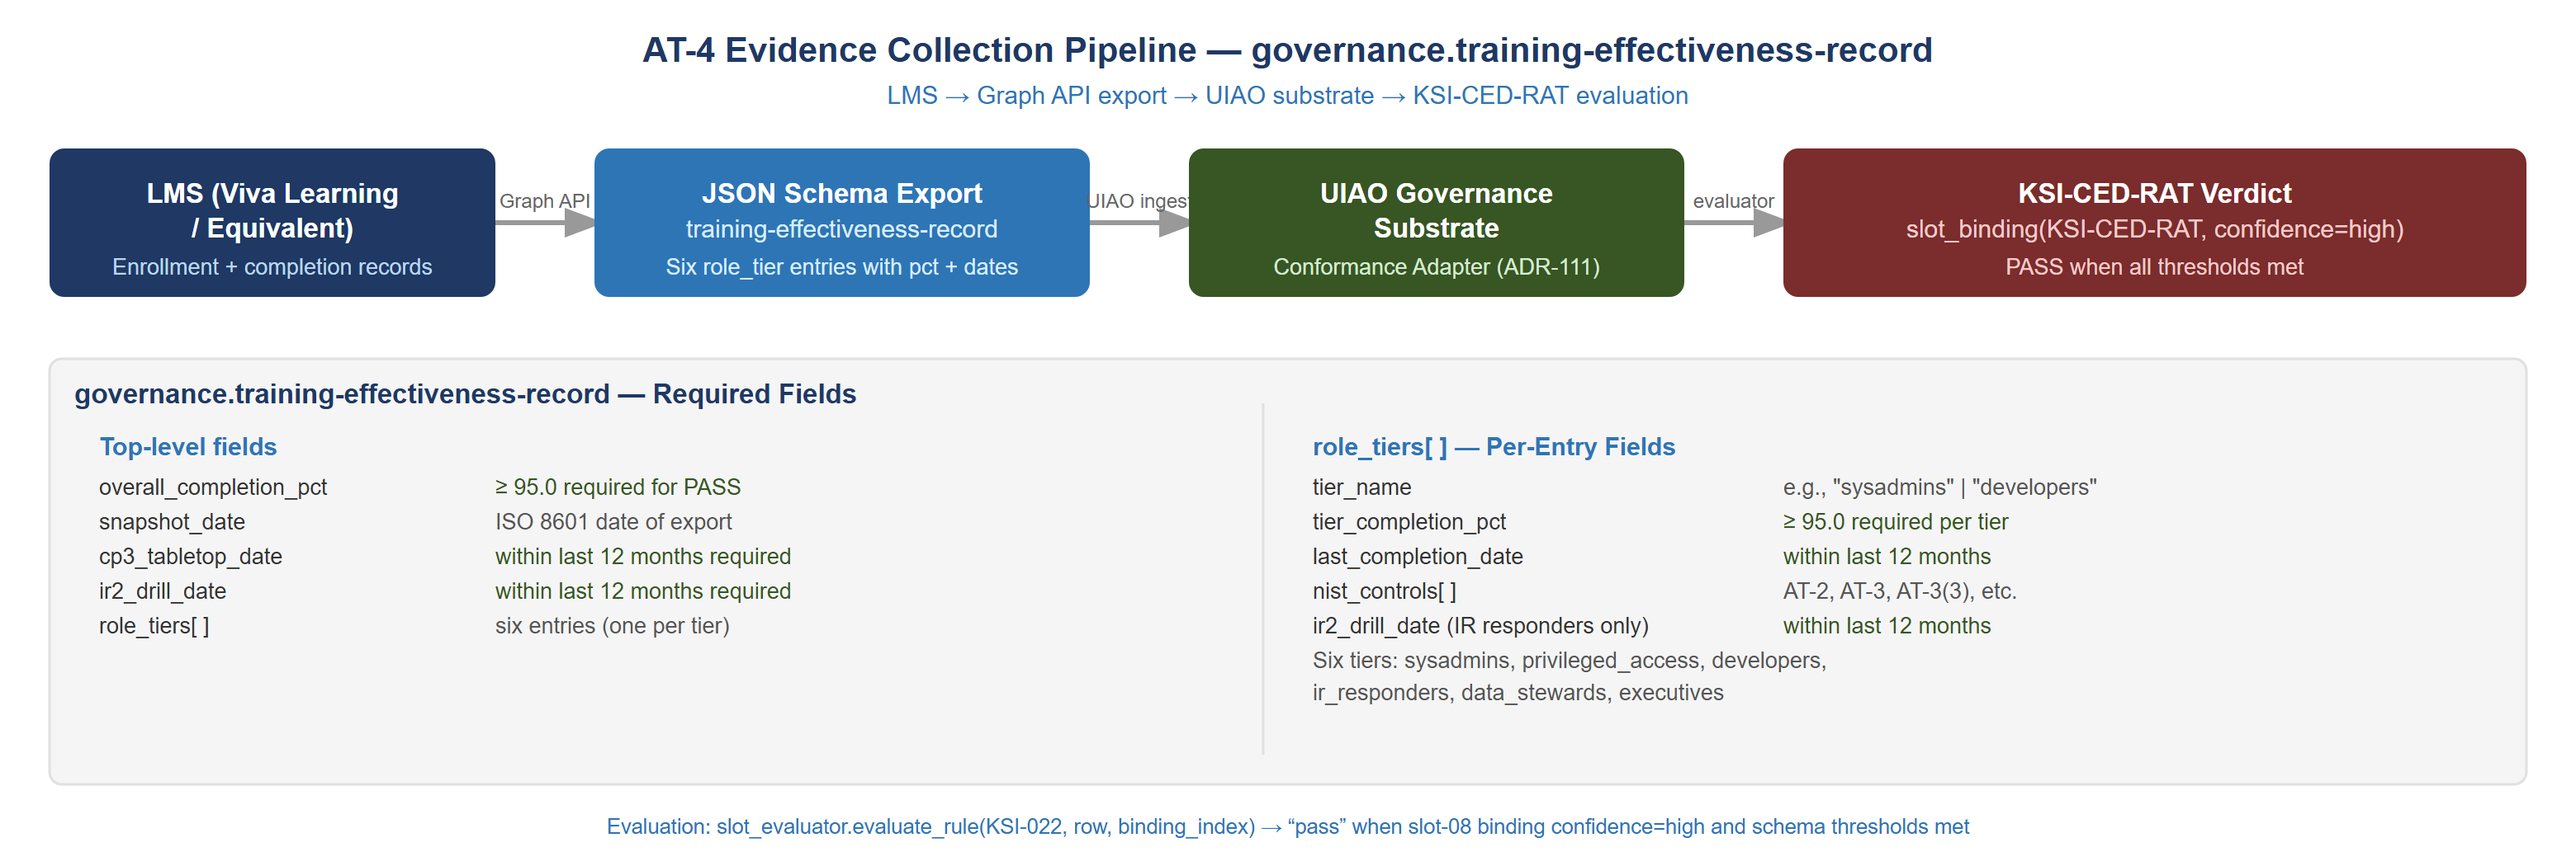
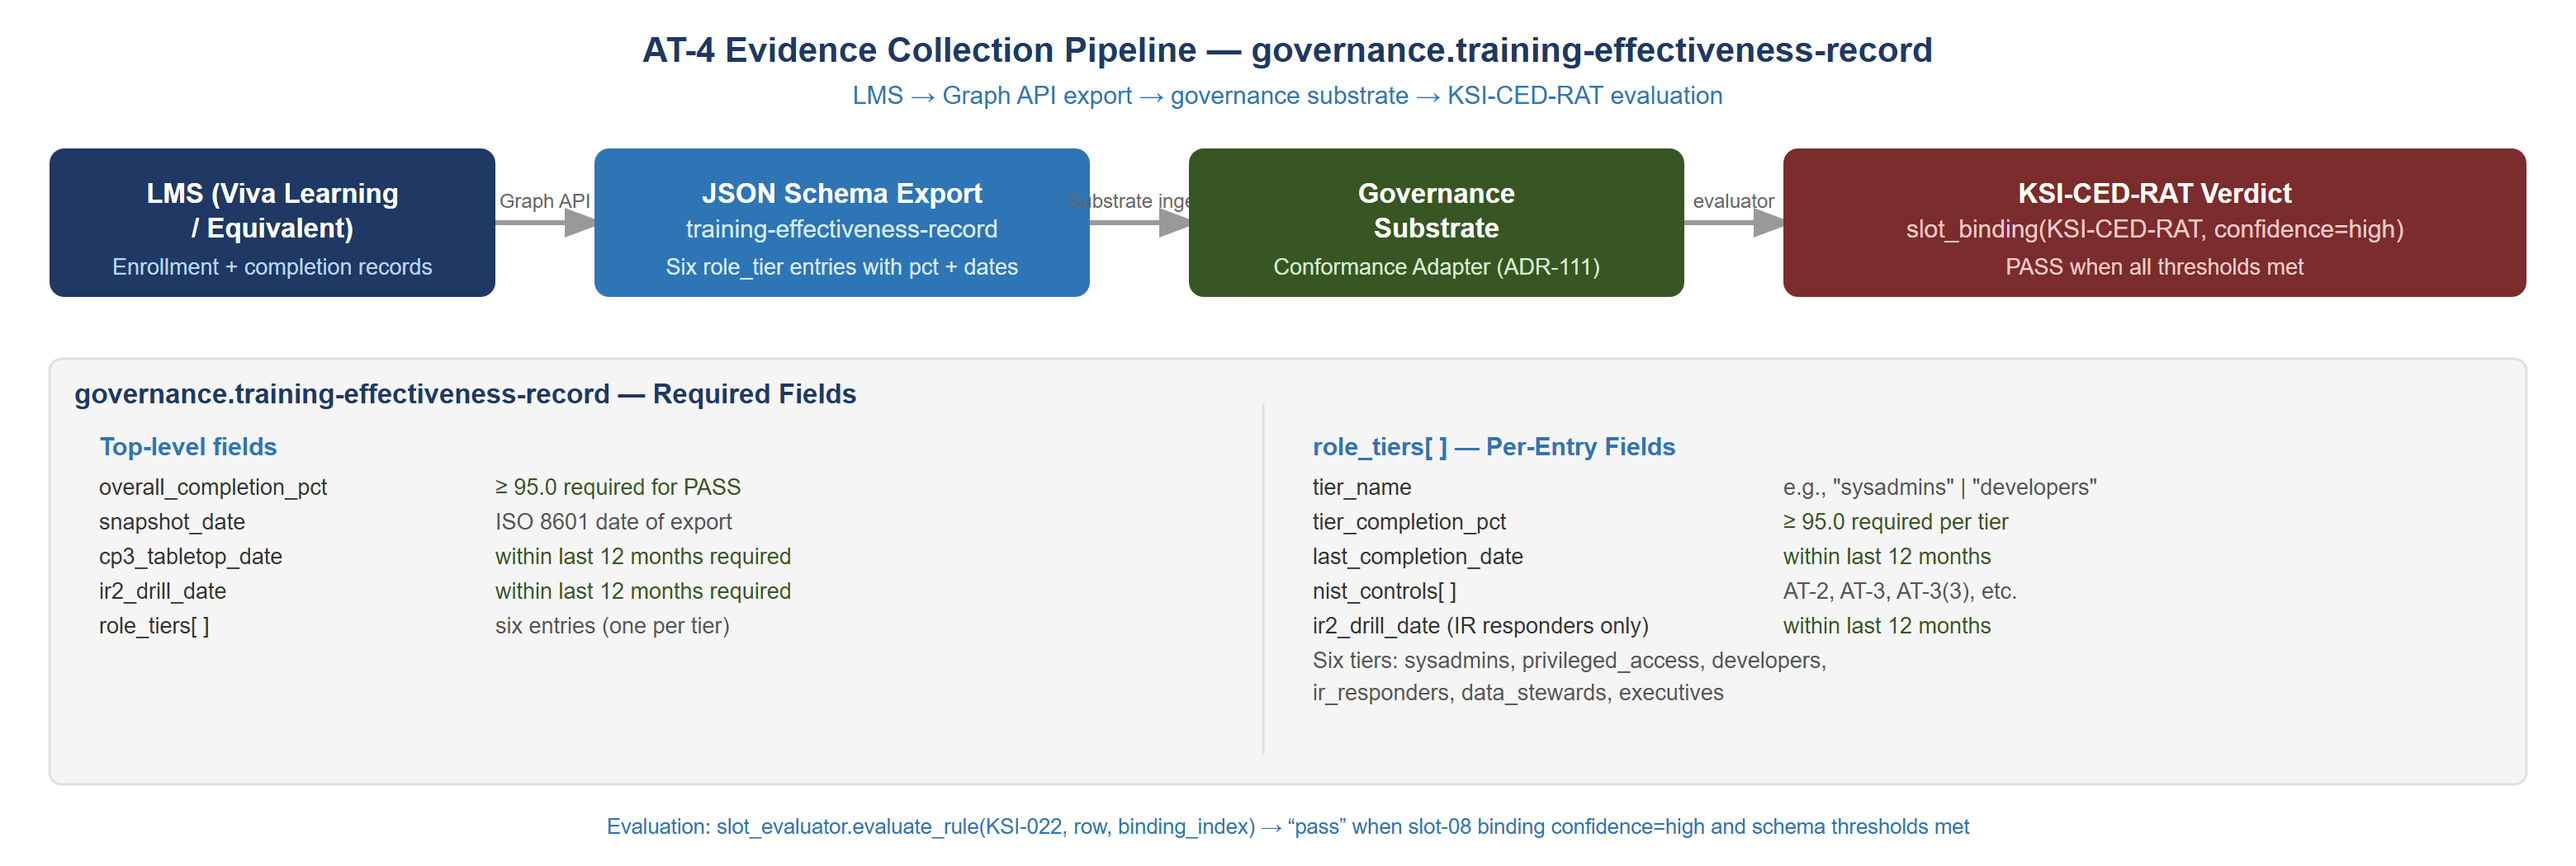
feat(aan): Vol IV Books 05 + 06 engine-neutral — ratchet 79 -> 73 (Phase 0)
The two heaviest engine-naming books now speak evidence-contract
language end to end, cleaned per the gate's pairing note (qmd + deck
spec + figures + Date Codes together):

- Vol IV Book 05 (Cybersecurity Training & Awareness, 24 mentions) and
  Vol IV Book 06 (Authorization Package & ConMon, 22 mentions):
  "UIAO governance substrate" -> "governance substrate", "the UIAO
  Conformance Adapter" -> "the governance engine's conformance adapter",
  `uiao oscal ...` / `uiao generate ssp` CLI invocations -> `<engine>
  ...` reference-implementation placeholders (the Vol 0 Book 00
  precedent), "internal UIAO working artifact" -> "internal working
  artifact", engine CI details generalized.
- Deck specs Vol_IV_Book_05/06.yaml: same rewrite in slide bodies and
  speaker notes; vendor_sources "uiao repo: src/uiao/" -> "reference
  implementation (host repo): src/"; the build-command header now points
  at BUILD-DERIVATIVES.md §1 instead of naming the engine CLI;
  date_code synced.
- figs/ced-fig-01 + ced-fig-02 rendered "UIAO" inside the diagram; SVG
  text now reads "Governance Substrate" / "Substrate ingest", PNGs
  regenerated at 3x via the render pipeline (ced-fig-01 sidecar updated;
  ced-fig-02 has no tracked sidecar).
- Both books' Date Codes refreshed to 2026-07-18 00:56 ET (frontmatter +
  header); customer-documents status table regenerated.
- check_engine_neutrality.py ratchet: 6 entries removed (2 qmds, 2
  specs, 2 SVGs) — 73 remain.
[…]

Changed region(s): [[0.3109, 0.0914, 0.684, 0.1219], [0.4974, 0.2133, 0.6218, 0.2438], [0.4042, 0.2133, 0.4663, 0.2438]]

diff --git a/docs/customer-documents/federal-aan-series/check_engine_neutrality.py b/docs/customer-documents/federal-aan-series/check_engine_neutrality.py
@@ -102,14 +102,10 @@ RATCHET = {
     "validate_day2_control_maps.py",
     # Figures that render the engine name INSIDE the diagram — need SVG
     # redraw + PNG/sidecar regen alongside their host book.
-    "figs/ced-fig-01-training-dimensions.svg",
-    "figs/ced-fig-02-evidence-pipeline.svg",
     "figs/mf-fig-13-fedramp-20x-mainframe.svg",
     "figs/mf-fig-14-ssot-restoration.svg",
     # Heavy books — 20+ mentions each and/or paired dirty deck specs;
     # clean qmd + spec + figs together (see pairing note).
-    "Vol_IV_Book_05_FedAAN_Cybersecurity_Training_Awareness.qmd",
-    "Vol_IV_Book_06_FedAAN_Authorization_Package_ConMon.qmd",
     "Vol_V_Book_01_FedAAN_Compliance_Track.qmd",
     "Vol_V_Book_02_FedAAN_Implementation_Track.qmd",
     "Vol_V_Book_03_FedAAN_Assessment_Certification.qmd",
@@ -144,8 +140,6 @@ RATCHET = {
     "specs/Vol_IV_Book_02.yaml",
     "specs/Vol_IV_Book_03.yaml",
     "specs/Vol_IV_Book_04.yaml",
-    "specs/Vol_IV_Book_05.yaml",
-    "specs/Vol_IV_Book_06.yaml",
     "specs/Vol_V_Book_00.yaml",
     "specs/Vol_V_Book_01.yaml",
     "specs/Vol_V_Book_02.yaml",

diff --git a/CHANGELOG.md b/CHANGELOG.md
@@ -21,6 +21,16 @@ All notable changes to UIAO are documented here. Format adapted from [Keep a Cha
 
 ### Changed
 
+- **AAN Vol IV Books 05 and 06 are engine-neutral.** The two heaviest
+  engine-naming books (Cybersecurity Training & Awareness; Authorization
+  Package & ConMon — 46 mentions between them) now speak evidence-contract
+  language: "the governance substrate", "the governance engine's
+  conformance adapter", `<engine> oscal …` reference-implementation CLI
+  placeholders, and vendor-source citations to "reference implementation
+  (host repo)". Their deck specs, both `ced-` figures (which rendered
+  "UIAO" inside the diagram — SVGs redrawn, PNGs regenerated), and Date
+  Codes moved in the same change; the engine-neutrality ratchet shrank
+  79 → 73.
 - **SVG-derived PNGs are no longer tracked (repo −66 MB, 865 files).** For
   every figure whose committed `.svg` source sits beside a committed `.png`,
   the PNG and its `.png.json` sidecar are now build artifacts, exactly as
